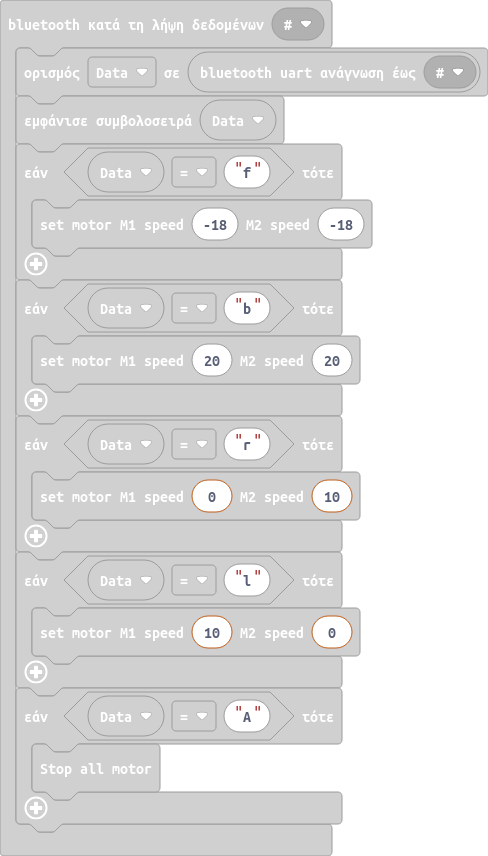
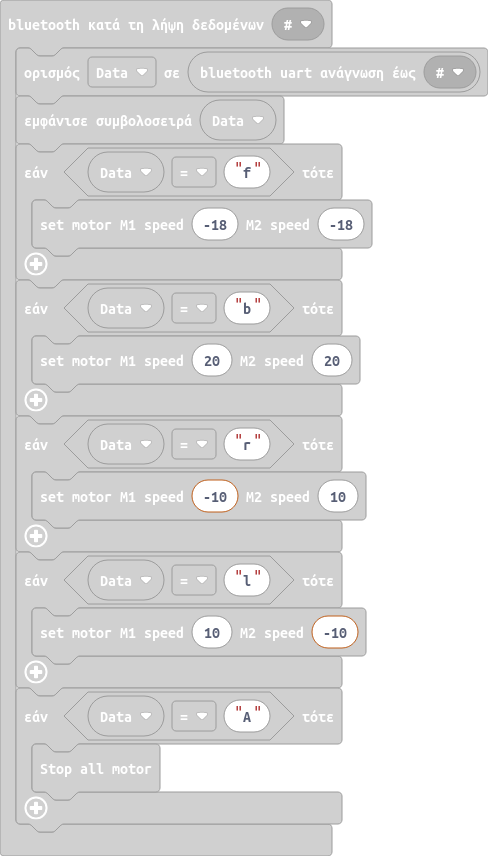
Ενημέρωση main.blocks, main.ts

Changed region(s): [[0.4303, 0.5467, 0.7684, 0.6075], [0.6762, 0.6986, 0.7684, 0.7593]]

diff --git a/main.ts b/main.ts
@@ -11,10 +11,10 @@ bluetooth.onUartDataReceived(serial.delimiters(Delimiters.Hash), function () {
         wuKong.setAllMotor(20, 20)
     }
     if (Data == "r") {
-        wuKong.setAllMotor(0, 10)
+        wuKong.setAllMotor(-10, 10)
     }
     if (Data == "l") {
-        wuKong.setAllMotor(10, 0)
+        wuKong.setAllMotor(10, -10)
     }
     if (Data == "A") {
         wuKong.stopAllMotor()
